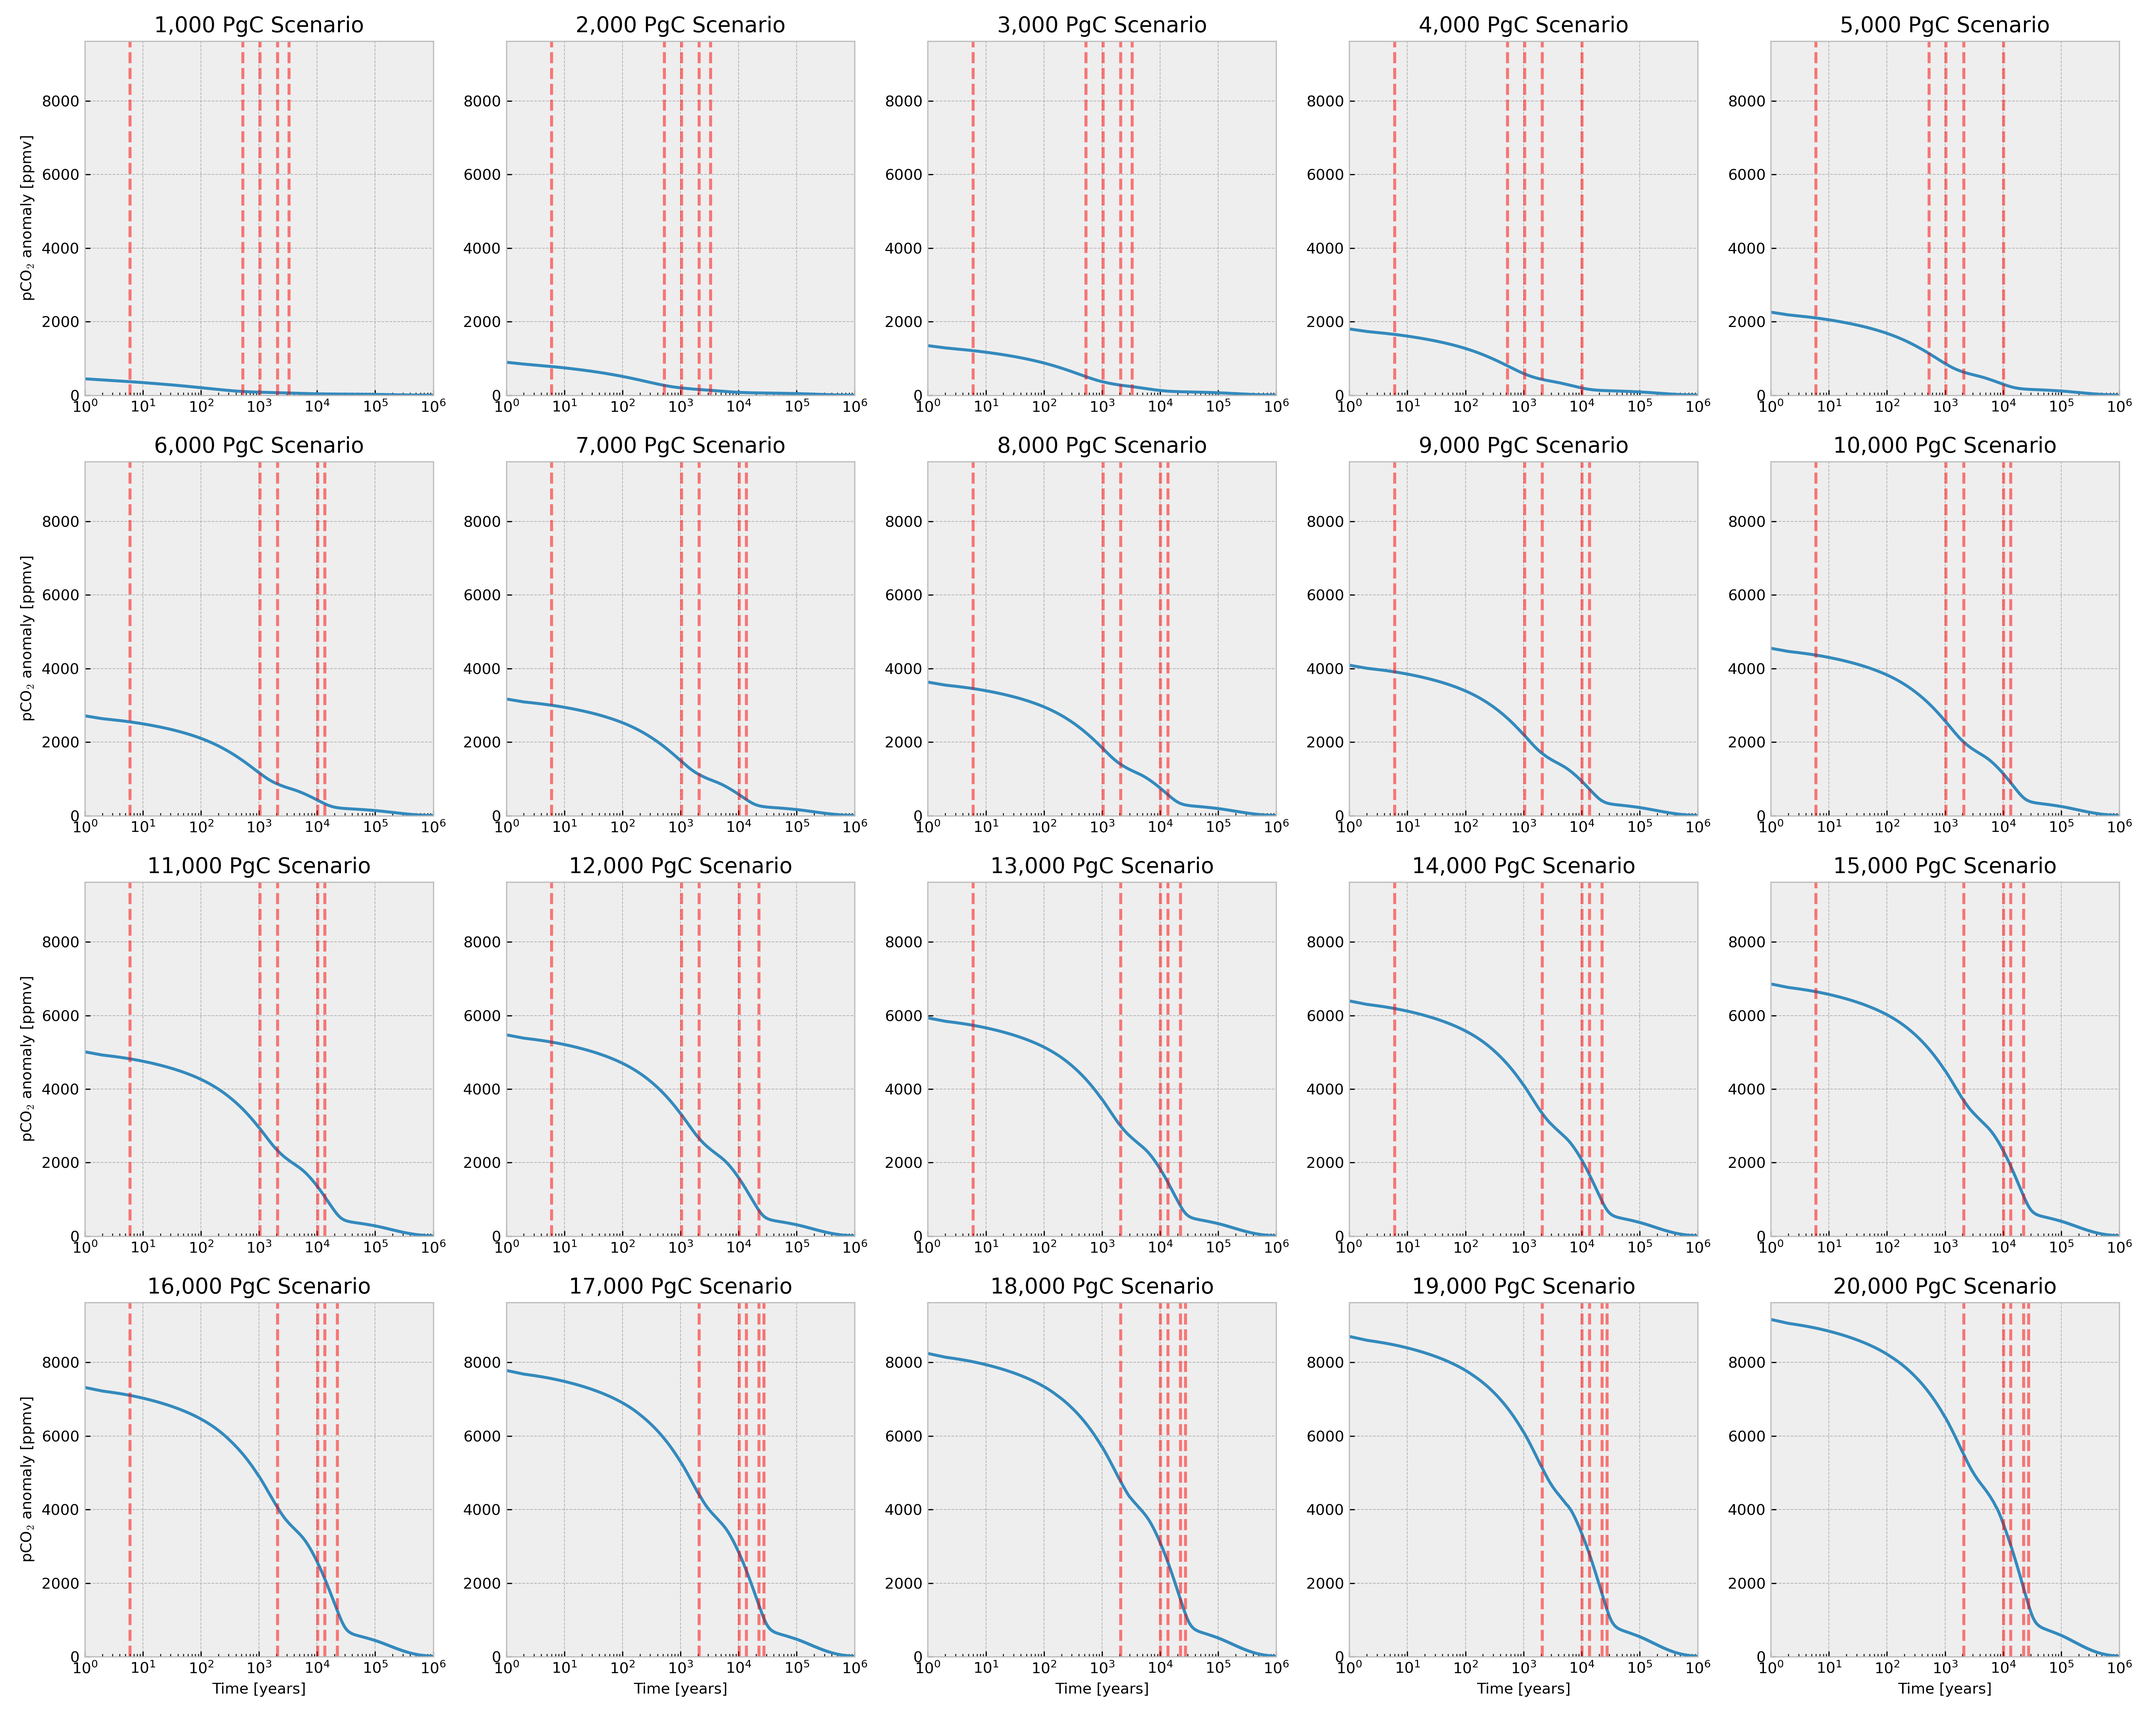
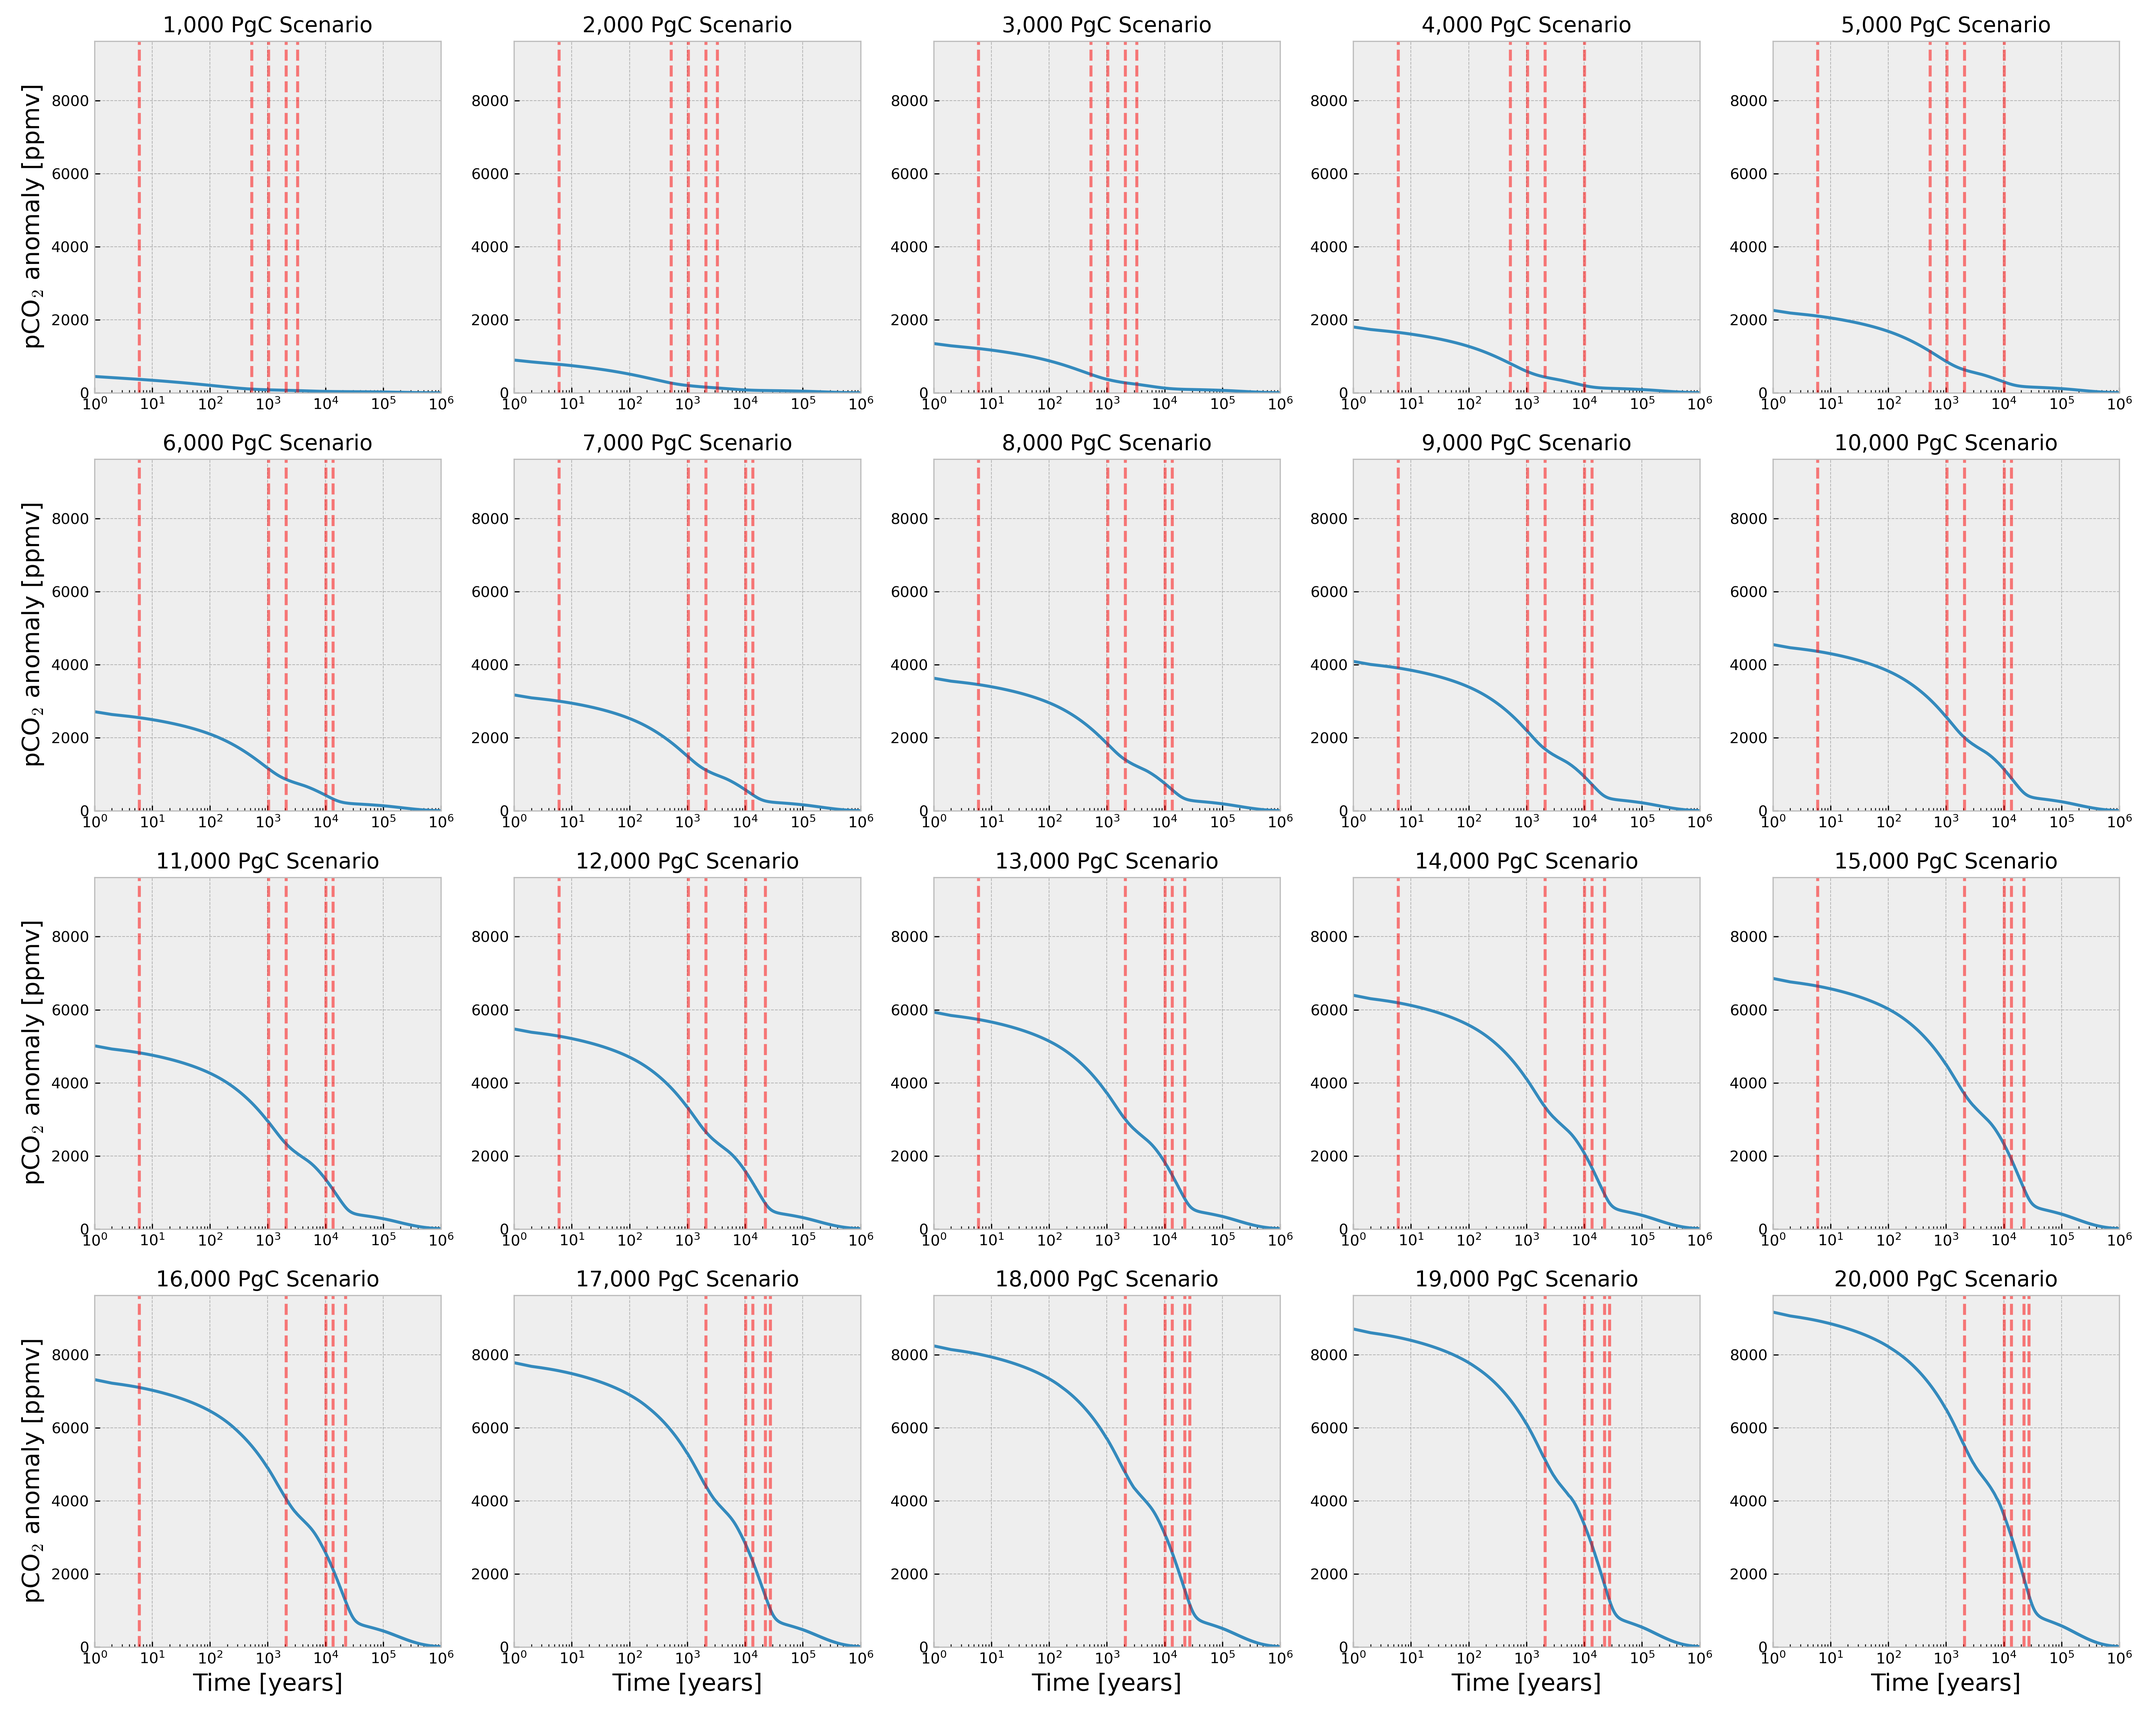
remove cpython flie

diff --git a/changepoint_analysis.py b/changepoint_analysis.py
@@ -148,9 +148,9 @@ def plot_results(time, series_data, all_changepoints, output_path):
         axs[i].set_xlim(time.min(), time.max())
         axs[i].set_ylim(0, series_data.max() * 1.05)
         if i >= 15:
-            axs[i].set_xlabel('Time [years]', fontsize=10)
+            axs[i].set_xlabel('Time [years]', fontsize=16)
         if i % 5 == 0:
-            axs[i].set_ylabel(r'pCO$_2$ anomaly [ppmv]', fontsize=10)
+            axs[i].set_ylabel(r'pCO$_2$ anomaly [ppmv]', fontsize=16)
 
     plt.tight_layout()
     plt.savefig(output_path, dpi=300)
